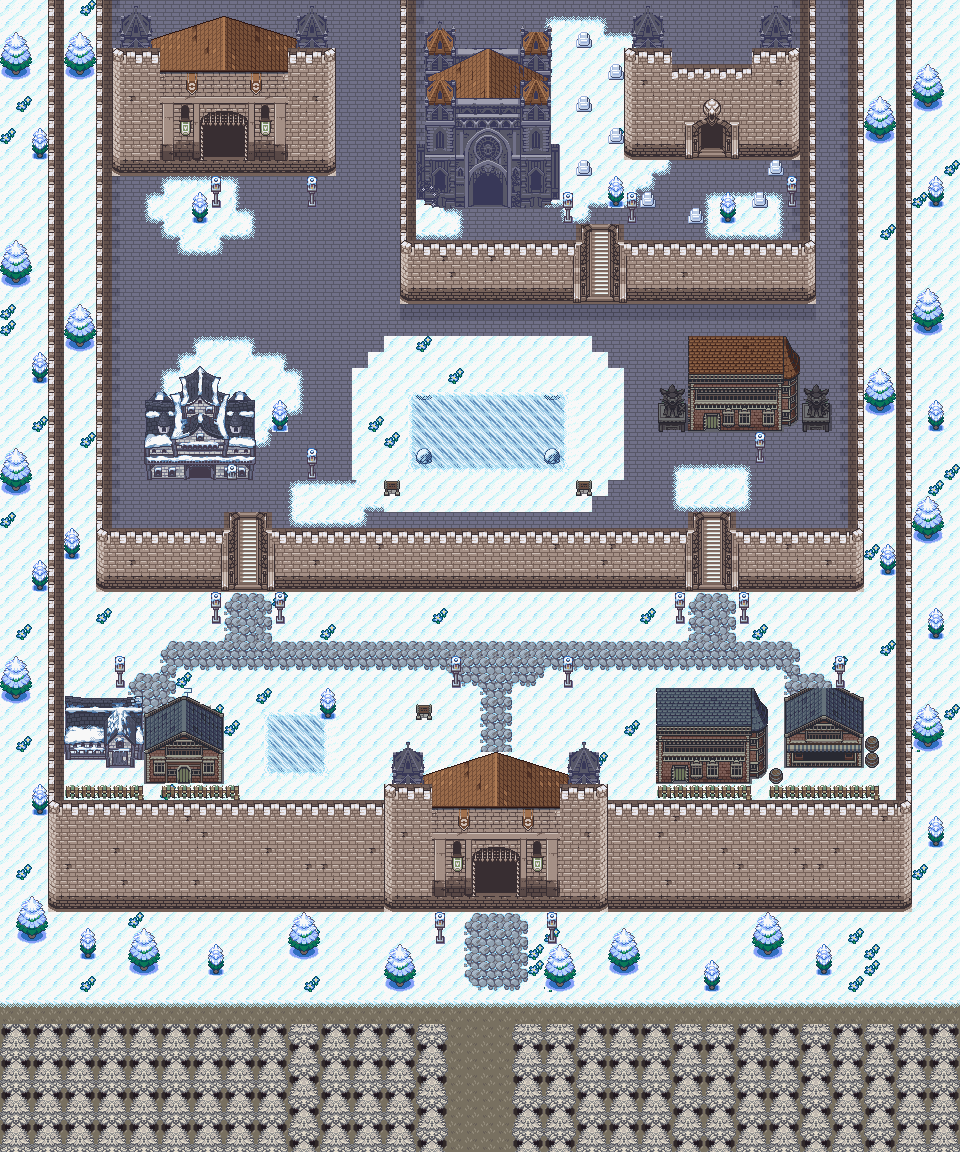
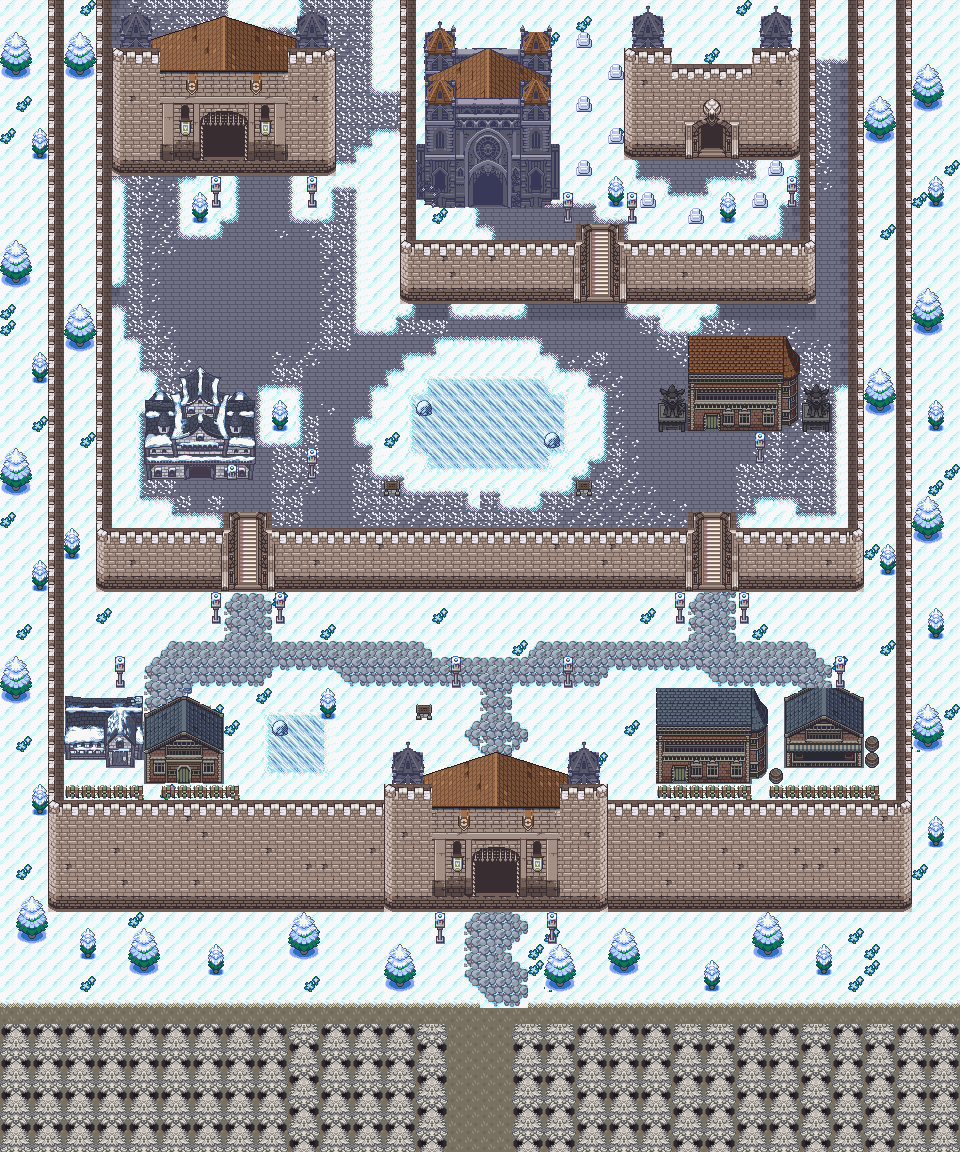
Mirroh: fluid snow on the stone, rounded ice, wandering lanes
The user: refine the mix of snow and stone so it is fluid and natural, not big blocks. Snow on the terraces from a field (smooth noise at two scales, deeper toward the walls, swept along the ways), cleaned so the drift pieces can draw it; dusted paving round the drifts; the ice in rounded uneven pools with the banks drifting onto it; the lower town's lanes and the way up from Hollow Hill wander. Audit clean.

Claude-Session: https://claude.ai/code/session_01FHXnfqnedTHLf5QFbB3MCU

diff --git a/tools/art/mirroh/mirroh_v3.py b/tools/art/mirroh/mirroh_v3.py
@@ -203,7 +203,10 @@ def snow_on(M, S, floor, cells, tag):
         elif se: m = 0x32e
         if m is None: M.ground(x, y, snow_tile(x, y), 'snow'); continue
         piece = ef(m).copy(); k = (piece == pave).all(-1)
-        piece[k] = floor(x, y)[k]
+        fl = floor(x, y); piece[k] = fl[k]
+        if not (fl == pave).all():                      # (on the ice: the drift's dark edge line a cold ice-blue)
+            p = piece.astype(int); dark = ~k & (_lum(p.astype(float)) < 150)
+            piece[dark] = (132, 160, 196)
         M.ground(x, y, piece, 'snow')
 
 def thick(S):
@@ -470,6 +473,92 @@ def blob(cx, cy, rx, ry, seed):
             if d < 1 + 0.35 * (rnd(seed, x, y) - 0.5): out.add((x, y))
     return out
 
+def vnoise(x, y, scale, seed):
+    """Smooth value noise in [0, 1): random values on a grid every `scale` cells, blended between."""
+    gx, gy = x / scale, y / scale; x0, y0 = int(np.floor(gx)), int(np.floor(gy)); tx, ty = gx - x0, gy - y0
+    sm = lambda t: t * t * (3 - 2 * t); tx, ty = sm(tx), sm(ty)
+    v = lambda i, j: rnd(seed, i, j)
+    return (v(x0, y0) * (1 - tx) + v(x0 + 1, y0) * tx) * (1 - ty) + (v(x0, y0 + 1) * (1 - tx) + v(x0 + 1, y0 + 1) * tx) * ty
+
+def _seg_dist(p, a, b):
+    p, a, b = np.array(p, float), np.array(a, float), np.array(b, float); ab = b - a
+    t = np.clip(np.dot(p - a, ab) / max(np.dot(ab, ab), 1e-9), 0, 1); return np.linalg.norm(p - (a + t * ab))
+
+def snow_field(l, cells, ways, keep, base):
+    """Where snow lies on a paved level: in ragged drifts of every size (smooth noise at two scales), a little more
+    toward its edges (walls, parapets, the map's top), cleared along the ways; always round `keep`."""
+    from scipy.ndimage import distance_transform_edt
+    mask = np.zeros((H, W), bool)
+    for (x, y) in cells: mask[y, x] = True
+    d = distance_transform_edt(mask)
+    S = set(); F = {}
+    for (x, y) in cells:
+        dd = min(d[y, x], y + 1)
+        f = base + 0.45 * np.exp(-(dd - 1) / 3.0) + 1.0 * (vnoise(x, y, 6.0, ('s', l)) - 0.5) \
+            + 0.45 * (vnoise(x, y, 2.6, ('t', l)) - 0.5)
+        w = min(_seg_dist((x, y), a, b) for way in ways for a, b in zip(way, way[1:]))
+        if w < 1.6: f -= 1.2 * (1.6 - w) / 1.6
+        if any(abs(x - kx) <= 1 and -1 <= y - ky <= 2 for kx, ky in keep): f = max(f, 0.6)
+        F[(x, y)] = f
+        if f > 0.5: S.add((x, y))
+    return S, F
+
+_DUST = {}
+def dust_tile(level, seed):
+    """Elderflower's paving with snow dusted on it: specks and little tufts, `level` 1 (a few) to 3 (thick);
+    two variants each (the in-game build will hold these few pieces)."""
+    key = (level, seed)
+    if key not in _DUST:
+        t = ef(0x275).copy(); n = (0, 5, 11, 19)[level]
+        for k in range(n):
+            x = int(rnd('dx', level, seed, k) * 15); y = int(rnd('dy', level, seed, k) * 14)
+            t[y, x] = (236, 240, 248); t[y, min(x + 1, 15)] = (236, 240, 248)
+            if rnd('dz', level, seed, k) < 0.5: t[y + 1, x] = (204, 212, 232)
+            if level == 3 and rnd('dw', seed, k) < 0.5: t[max(y - 1, 0), x] = (236, 240, 248)
+        _DUST[key] = t
+    return _DUST[key]
+
+def dust(M, S, cells, F, ways, l):
+    """The paving round the drifts, and here and there in the open, dusted: thicker next to the snow, thinning
+    out, none on the swept ways. So the drifts fade into the stone instead of stopping at a hard edge."""
+    for (x, y) in cells:
+        if (x, y) in S or M.gtag[y, x] != 'pave': continue
+        near = min((max(abs(x - a), abs(y - b)) for a in range(x - 2, x + 3) for b in range(y - 2, y + 3)
+                    if (a, b) in S), default=9)
+        w = min(_seg_dist((x, y), a, b) for way in ways for a, b in zip(way, way[1:]))
+        if w < 1.2: continue
+        f = F[(x, y)] + (0.35 if near == 1 else 0.15 if near == 2 else 0) + 0.25 * (rnd('du', x, y) - 0.5)
+        lev = 3 if f > 0.42 else 2 if f > 0.3 else 1 if f > 0.16 else 0
+        if lev:
+            sh = M.g[y][x]
+            if not (sh == ef(0x275)).all(): continue        # (shaded paving by a wall or parapet left as it is)
+            M.ground(x, y, dust_tile(lev, int(rnd('dv', x, y) * 2)), 'pave')
+
+def clean_snow(S, cells):
+    """Snow the drift pieces can draw: no crumbs (fewer than five cells), no one-cell necks or tips, no paving
+    holes of one or two cells inside it, no cell with bare paving only at two opposite corners."""
+    from scipy.ndimage import label
+    for _ in range(4):
+        S = thick(S & cells)
+        m = np.zeros((H, W), bool)
+        for (x, y) in S: m[y, x] = True
+        lab, n = label(m)
+        for i in range(1, n + 1):
+            if (lab == i).sum() < 5: S -= {(int(x), int(y)) for y, x in np.argwhere(lab == i)}
+        hole = np.zeros((H, W), bool)
+        for (x, y) in cells:
+            if (x, y) not in S: hole[y, x] = True
+        lab, n = label(hole)
+        for i in range(1, n + 1):
+            if (lab == i).sum() <= 2: S |= {(int(x), int(y)) for y, x in np.argwhere(lab == i)}
+        bad = set()
+        for (x, y) in S:
+            pv = lambda a, b: (a, b) in cells and (a, b) not in S
+            if not (pv(x - 1, y) or pv(x + 1, y) or pv(x, y - 1) or pv(x, y + 1)):
+                if (pv(x - 1, y - 1) and pv(x + 1, y + 1)) or (pv(x + 1, y - 1) and pv(x - 1, y + 1)): bad.add((x, y))
+        S -= bad
+    return thick(S & cells)
+
 def compose():
     M = Map()
     for y in range(SEAM):
@@ -477,38 +566,63 @@ def compose():
     mm.hh_seam(M)
     lv = lambda l: {(x, y) for y in range(SEAM) for x in range(W) if L[y, x] == l}
 
-    # --- L2 (the square) and L3 (the sacred terrace): paving, with snow lying on it in drifts; the ice in a snowy
-    # yard in the square. L3 snowier than L2 (deeper uphill).
-    for l, snows in ((2, [blob(14, 24, 4, 3, 'a'), blob(48, 13, 2, 4, 'b'), blob(12, 13, 3, 2, 'c'),
-                          rrect_cells(22, 21, 38, 31, 3), blob(44, 30, 3, 1, 'd'), blob(20, 31, 3, 1, 'e')]),
-                     (3, [blob(36, 7, 5, 6, 'gy'), blob(46, 13, 3, 1, 'f'), blob(26, 13, 2, 1, 'g')])):
-        cells = lv(l); S = set()
-        for b in snows: S |= b
-        S = thick(S & cells)
-        snow_on(M, S, lambda x, y: ef(0x275), cells, 'pave')
-    # the reflecting ice, in the square's snowy yard: Opal Village's ice (coloured), the yard's snow drifting onto it
-    ice = rect(26, 24, 34, 28)
-    yard = thick(rrect_cells(22, 21, 38, 31, 3) & lv(2))
-    icef = lambda x, y: recolour(full('gg', 0x282 if (x, y) in ((26, 24), (34, 24), (26, 28), (34, 28)) else 0x34b),
-                                 GG_ICE)
-    banks = thick({c for c in yard if c not in ice or c in rect(26, 24, 34, 24)} )
-    snow_on(M, banks, icef, yard, 'snow')
-    for c in ice - banks: M.gtag[c[1], c[0]] = 'ice'
+    # --- L2 (the square) and L3 (the sacred terrace): paving, with snow lying on it as it would: drifted deep
+    # against the walls, the parapets and round the buildings, thinning out into the open in ragged tongues and
+    # islands, and swept clear along the ways people walk (stair to door to gate); deeper on L3 (uphill). The
+    # reflecting ice sits in a drift of its own in the square.
+    BOULDERS = ((26, 25), (34, 27), (17, 45))
+    icef = lambda x, y: recolour(full('gg', 0x282 if (x, y) in BOULDERS else 0x34b), GG_ICE)
+    def pool(cx, cy, rx, ry, seed):                     # (the ice in a rounded, uneven shape, two cells thick or more)
+        return thick({(x, y) for y in range(cy - ry - 1, cy + ry + 2) for x in range(cx - rx - 1, cx + rx + 2)
+                      if ((x - cx) / (rx + 0.5)) ** 2 + ((y - cy) / (ry + 0.5)) ** 2
+                      < 1 + 0.3 * (vnoise(x, y, 1.8, seed) - 0.5)})
+    ice = pool(30, 26, 5, 2, 'ice')
+    WAYS = {2: [((15, 32), (15, 27), (12, 30)), ((44, 32), (44, 28), (46, 27)), ((15, 27), (22, 22), (37, 20)),
+                ((44, 28), (40, 22), (37, 20)), ((15, 27), (15, 12)), ((22, 22), (20, 32))],
+            3: [((37, 14), (31, 13)), ((37, 14), (40, 11), (44, 10))]}
+    KEEP = {2: [(12, 12), (17, 25), (13, 11), (19, 11), (49, 11)],            # pines, lamps: stand in snow
+            3: [(36, 2), (38, 4), (36, 6), (38, 8), (36, 10), (40, 12), (43, 13), (47, 12), (48, 10), (38, 11),
+                (45, 12)]}
+    for l, base in ((2, 0.2), (3, 0.42)):
+        cells = lv(l)
+        S, F = snow_field(l, cells, WAYS[l], KEEP[l], base)
+        yard = set()
+        if l == 2:
+            yard = {(x, y) for (x, y) in cells
+                    if ((x - 30) / 8.0) ** 2 + ((y - 26) / 5.3) ** 2 < 1 + 0.3 * (vnoise(x, y, 2.5, 'yd') - 0.5)}
+            S |= yard
+        S = clean_snow(S - ice, cells - ice) | (yard - ice)
+        near_ice = lambda x, y: any((x + i, y + j) in ice for i in (-1, 0, 1) for j in (-1, 0, 1))
+        floor = (lambda x, y: (icef(x, y) if (x, y) in ice else recolour(full('gg', 0x34b), GG_ICE))
+                 if near_ice(x, y) else ef(0x275))         # (a bank's drift shows the ice it lies against)
+        snow_on(M, S, floor, cells, 'pave')
+        dust(M, S, cells - ice, F, WAYS[l], l)
+        if l == 2:
+            for (x, y) in ice:
+                if (x, y) not in S: M.gtag[y, x] = 'ice'
 
     # --- L1 (the lower town): snow, cobbled lanes
-    C = set()
-    C |= rect(28, 40, 33, 42) | rect(10, 40, 49, 41)                # the street along the square's wall
-    C |= rect(14, 37, 16, 39) | rect(43, 37, 45, 39)                # to the two stairs up
-    C |= rect(30, 43, 31, 46)                                       # to the south gatehouse's far door (its mat)
-    C |= rect(8, 42, 10, 46) | rect(49, 42, 51, 46)                 # lanes to the cottages, the market
-    C &= lv(1)
+    def lane(pts, half, seed):                          # (a worn lane: its width and line wander a little)
+        out = set()
+        for y in range(H):
+            for x in range(W):
+                w = min(_seg_dist((x, y), a, b) for a, b in zip(pts, pts[1:]))
+                if w < half + 0.7 * (vnoise(x, y, 3.0, seed) - 0.5): out.add((x, y))
+        return out
+    C = lane(((10, 41), (20, 40.5), (30, 41.5), (40, 40.5), (50, 41)), 1.25, 'st')   # the street under the wall
+    C |= lane(((15, 37), (15, 41)), 1.3, 'w1') | lane(((44, 37), (44, 41)), 1.3, 'w2')   # to the stairs up
+    C |= lane(((30.5, 41), (30.5, 46)), 1.1, 'gt')                   # to the south gatehouse's back
+    C |= lane(((10, 41), (9, 46)), 1.2, 'w3') | lane(((50, 41), (51, 47)), 1.2, 'w4')    # the cottages, the market
+    C |= {c for c in rect(29, 43, 32, 46) if ((c[0] - 30.5) / 2.2) ** 2 + ((c[1] - 46) / 2.4) ** 2 < 1}  # (its foot)
+    C = thick(C & lv(1)) | (rect(30, 45, 31, 46))
     cobbles(M, C)
     # a small frozen pond by the cottages (the same ice, its snow drifting onto it)
-    pond = rect(17, 45, 19, 47); pondyard = rect(15, 43, 21, 49)
+    pond = pool(18, 46, 2, 1, 'pond'); pondyard = {c for c in rect(14, 43, 22, 49)
+                                                 if ((c[0] - 18) / 4.6) ** 2 + ((c[1] - 46) / 3.4) ** 2 < 1.15} | pond
     snow_on(M, thick(pondyard - pond), icef, pondyard, 'snow')
     for c in pond: M.gtag[c[1], c[0]] = 'ice'
     # --- L0 (outside): the cobbled way up from Hollow Hill to the south gatehouse
-    C0 = rect(29, 57, 32, SEAM - 3)
+    C0 = thick(lane(((30.5, 57), (30, 59.5), (30.8, SEAM - 2.6)), 1.6, 'hh'))
     cobbles(M, C0)
 
     walls(M)

diff --git a/bible/20_chapter1_build.md b/bible/20_chapter1_build.md
@@ -181,7 +181,7 @@ Chapter 1 is the template: once its foundations (mechanics, maps, buildings, NPC
 - **The ice path and the church after the blast (user design 2026-11-19), built (stage 1 + the stage-3 puzzle, user: the two combined for this piece).** **The church after Eden's blast** is a second layout of the same hall map (`LAYOUT_PELLUCA_TEMPLAR_HALL_RUINED`), swapped in by the hall's on-transition script once **`FLAG_DR_CHURCH_BLASTED`** is set (the blast scene, stage 4): the split through the gold medallion with frost round it, the old fault's cracks in wall and carpet, the cracked stained glass (three in the great window, one across the girl's face; two in each lancet) and the cell doorway caved in under MonoMyth's Mt. Thunder rubble (`blast_mock.py`, approved); no long crack from the rubble to the split (tried, dropped, user: unnatural and not needed). Everything else plays as the intact hall: its collision, its exit, and its side tables' tops over the player, read from the intact layout. The four split cells drop the player (Mt. Pyre's fall-through-the-hole) onto the ice path's landing; the cell door is dead and the fallen stone in front of it solid. **The ice path** (`PellucaIcePath`, 16x24, `icepath_mock.py`, approved): the landing, the 12x9 thin-ice field (86 ice cells, 22 ice boulders, a unique route from the landing to the gate), the ice wall and its gate, and the shrine: the half-thawed Arceus statue between the fossilised log benches, fire rings and blue flowers, and the three stone tusk arches like a ribcage before it. **The puzzle** runs on vanilla's Sootopolis-gym step callback (`STEP_CB_SOOTOPOLIS_ICE`, `VAR_ICE_STEP_COUNT`), which `src/field_tasks.c` now points at this map's own cracked/broken metatiles on this layout (`METATILE_PellucaIcePath_*`, written by the build into `metatile_labels.h`; the Sootopolis row-var bookkeeping kept to the gym). All 86 cracked (count 87): the gate's ice gives way (`SE_ICE_STAIRS`), the field refreezes solid (special `DrIcePathFreeze`: safe ice, no behaviour) and **`FLAG_DR_ICE_PATH_SOLVED`** is set; a second step on a cracked cell: the ice breaks, the player drops through, black screen, back on the landing with a fresh field. Every full load of the map rebuilds a fresh field and count when unsolved (special `DrIcePathReset`; a continued save would otherwise restore cracked cells in view), and the solved state (gate open, refrozen field) when solved. **Ways out:** the ladder in the shrine's corner, and (added in the build, so the player is never stuck before solving) **the Templars' rope** hanging beside the landing; both bring the player up just south of the split (hall warp 2). The ribs stand free: only each leg's foot is solid, the rest of each rib is drawn over the player, so he walks under and between them. Map type underground. Flags: `FLAG_DR_CHURCH_BLASTED` = 0x901, `FLAG_DR_ICE_PATH_SOLVED` = 0x902. Built by `tools/art/icepath/build_icepath.py` and `tools/art/templar/build_ruined.py` (with `imgtiles.py`; `tools/art/academy/tilefit.py` merges the statue's rarest near-shades so each 8x8 tile fits one palette, no visible change); `CHURCH_TEST_BLASTED=1` builds a test ROM that sets the flag on entering the hall. **Verified in the emulator** (test build): city -> ruined hall -> the cell door blocked -> into the split -> the landing; a second step on a cracked cell -> reset to the landing; the rope up and back down; the solution walked -> gate open, field refrozen -> the shrine -> the ladder up -> back down the split: still solved, the field crossed back and forth without falling. Normal build: the intact hall unchanged (city -> hall -> cell -> hall -> city; the split cells inert). *Stage 3-4, still to do:* the blast scene that sets the flag, the Templar's remark on the cold, the Sparkling Opal and the discovery, the Archbishop's scene, the leave-the-Valley block, dialogue for the fall (the field's black-out is silent for now).
 - **The shrine's awakening and the Sparkling Opal (user design 2026-11-20), built.** With the field solved, **pressing A on the Arceus statue** awakens the holy power of the site: dramatic music starts at the touch (**Rayquaza Appears**, `MUS_RAYQUAZA_APPEARS`; user: something awe-inspiring), a rumble, **the ice melts off the statue** (five frames, a little meltwater left at its foot), **the seal breaks in a holy flash** (fade to white and back) with **Arceus's cry echoing** (the cry's chorus mode under a heavy mixer reverb: specials `DrPlayEchoCry` / `DrEndEchoCry`), **the two fire rings beside the logs light** one after the other in **holy sapphire-and-white flame** (user's pick over warm firelight; animated, four frames on dedicated tiles: `InitTilesetAnim_PellucaIcePath`), and the music ends. Then Osrid (portrait, his private nameplate): "Something fell down out of the ice... Could this be...!!", and **"Osrid found the Sparkling Opal!"** with the key-item fanfare and its description popup. The statue stays thawed and the fires lit (`FLAG_DR_STATUE_AWAKENED` = 0x909, restored on every load). **Sparkling Opal** (`ITEM_SPARKLING_OPAL`, key item): its bag icon drawn in `awaken_mock.py` (a milky opal with a rainbow patchwork of play of colour, user); bag text (three lines fit): "Fell from the ice of / an Arceus statue. It / shimmers as if alive." (the user's description, "A gleaming opal that fell from the ice around an ancient Arceus statue. Its colours shift as if alive.", is too long for the bag window; it can be the text when the item is first shown or examined). **What happens to it (user 2026-11-20, canon):** when the player goes back up and shows it to **Archbishop Ambrose**, he gives them the **Warding Ring** with massive enthusiasm (a key item that, worn, keeps wild Pokémon away: a Repel switched on and off at will): Sparkling Opals appear only where Arceus has set foot in the material realm, the Templars have sought one for centuries, and this is the first physical proof of Arceus found in centuries as far as he knows. The player also gets the bravery reward (Never-Melt Ice / Metal Coat / Soft Sand). Stage 4: the scene; the Ring's mechanic to be built with it. **Ice path music (user):** the cave plays **MonoMyth's Old Headquarters theme** (Old Town's Old HQ, where the gang leader with the Bug Pokémon is fought): MonoMyth song 677 ported note for note by `tools/monomyth/port_song.py` (tracks, the voices it uses, its two samples; credit MonoMyth) as `MUS_DR_OLD_HQ` (song 631). **Church crack** (user): the long fresh crack from the cell rubble to the split is gone. Built by `build_icepath.py` with `awaken_mock.py` (melt frames, flames, icon); the statue's cells across all the melt frames share 26 colours (`tilefit.reduce_joint`) so the room still fits 13 palettes. **Verified in the emulator** (test build): the cave plays the Old HQ theme; A on the statue plays the whole sequence (music switches to Rayquaza Appears and back, the melt, the flash, both fires, the line, the item into Key Items); leaving and coming back: statue thawed, fires lit and flickering (four distinct frames).
 - **Route 11 and Hollow Hill: layouts approved (user 2026-11-20).** **Route 11** (45x30, west from Pelluca's west road): Pelluca's pines and cobble road carry on at the east end (the seam to Pelluca uses Pelluca's own Cormoria tiles), farmland in the middle (a thatched farmhouse with a fenced yard, cabbage rows, a sown field, hay; fenced flower rows and tall grass south of the road), tan cliffs stepping down along the north, a cliff-flanked little cove on the south coast, and at the west end the road becomes a dirt track into cooler dark woods running on into Hollow Hill (the Eiscue scene on that track). Art: Crown's seaside farm village (3.1) and dark woods (3.25), Odyssey's farm (0.232); Pisces' Brumist Cliffs / Zotpyre Village (snowy in the ROM) and Odyssey's terraced hill as layout ideas. **Hollow Hill** (about 50x50; **its theme (approved by the user 2026-11-20, "perfect"):** Ghost Grey's Route 1 theme re-arranged as `MUS_DR_HOLLOW_HILL` by `tools/music/arrange_hollow_hill.py`: slowed from 124 to 64 bpm, on the soft pedal piano, no percussion, with a ghostly far-off voice echoing the tune (a sine tone first, heard as beeps: replaced) (wind was tried and taken out: it came across as static) in the bars where the song falls quiet; credit Ghost Grey): woods rising in three rings, each a cliff step up, to a central rock knoll; the path in from Route 11 climbs the rings by stairs to **the sealed tunnel door** at the knoll's foot; the north exit to Mirroh leaves from the outer ring (Glaive there); the Eiscue and the 1v2 on the outer ring; **very foggy, with a generally spooky, unsettling feeling** (user 2026-11-20). **The summit is late-game** (unlocked only with Valkeerin/Keerin in the party; the trip to the distant future and the Red fight happen there; 19_location_atlas.md). **Hollow Hill will be revisited and added to over the whole game** (many secrets, met in pieces): its layout and its tileset keep room for more (hidden burrow mouths placed now as scenery that can later open, the summit area behind the sealed door, spare palette and tile room in its tileset). **Revision (user 2026-11-20, after the first mock):** Route 11 is **about twice as long (about 90x30)**; the **Ivy River's thin western branch** (as on the illustrated region map, coming down from the north past the Necropolis just west of Pelluca) **crosses Route 11 near its Pelluca end and runs down to the beach and the sea; the road crosses it on a bridge**; the **grass shifts gradually** from Pelluca's light mint to the darker temperate greens of Hollow Hill's woods (shades reaching into each other in patches, as MonoMyth's and Crown's route boundaries do; tree kinds mixing before they change). Design rule: no tree or object ever cut, stacked into another or bleeding into buildings, cliffs or water (docs/chapter1_workflow.md). **Mock v2 (2026-11-20):** the river drops through a chasm in three falls (the middle one under the bridge), over the coastal cliff into a rock pool, and a stream bends west over the sand to the sea; the beach is a cove between cliff walls, split by the stream. **Steps down to the west beach (user 2026-11-20)** are cut into the coastal cliff just west of the bridge (stone stairs, two wide: Pelluca's own stair tiles, as in its sea wall): the beach holds **at least one trainer**, and more may go there later. The east beach (between the stream and Pelluca's pines) has no way down yet: **revisit later (user 2026-11-20).** **Built (2026-11-20):** `MAP_ROUTE11` (layout 90x40: five rows of woods, the chasm and the sea added above and below the approved picture, out of the player's reach, so the camera never shows past the edge), connected to Pelluca's west road (Route 11's road rows 19-21 = Pelluca's 28-30). Its own secondary tileset (`gTileset_Route11`, 7 palettes: grass, broadleaf woods, farm, cottage and hay, bridge, cliffs, river and pines on sage) under Pelluca's primary; Pelluca's own metatiles wherever a cell is one. Crowns of trees are walked behind; tall grass is tall grass (no encounter table yet: stage 5); the river in the chasm is solid, the stream and the sea need Surf. **Story gate (provisional):** stepping onto Pelluca's west edge is stopped with Osrid's line ("Cadmus told me to meet him at the church..." after the blast, a general line before it) until the shrine is awakened; stage 4 sets the real condition. **Music (user 2026-11-20):** MonoMyth's Route 15 theme (`MUS_DR_MM_ROUTE15`): a classic Pokémon route theme, reworked, a bright contrast before spooky Hollow Hill. Credit: MonoMyth (its music). **Pelluca Valley's main theme (user 2026-11-20):** Pokémon Crown's route theme (its song 292, `MUS_DR_CROWN_PELLUCA`), replacing Lilycove's, **in the piano version the user chose** (`MUS_DR_CROWN_PELLUCA_PIANO`: our pedal piano for its guitar, harp, clarinet and flute, standalone; the original as ported was removed, user: the remix is better). Credit: Pokémon Crown (its music). **Cold-open music (user 2026-11-20):** MonoMyth's "A Legend Unfolds" (`MUS_DR_LEGEND_UNFOLDS`; in MonoMyth it plays when Fabrizia's museum in North Edelweiss tells the legend of Athanto's Pokémon) plays from Tenebris's notes through Cadmus's letter until Osrid docks in Pelluca, replacing "Far Horizons". Credit: MonoMyth (its music). **Loops checked in the game (2026-11-20):** Pelluca's theme, Route 11's, the cold open's and Hollow Hill's each play through their loop point and come back in step with their loop start (every track loops at the same point). **Sound engine (2026-11-20):** 12 sampled voices instead of 5, as MonoMyth uses (the songs from MonoMyth and Crown play up to 10-12 notes at once; with 5 they cut each other off). **Hollow Hill mock v3 (user 2026-11-20: "quite good"):** `tools/art/hollowhill/hh_mock.py`, renders in `assets/hollowhill_reference/`. Art: Pokémon Odyssey's haunted forest (its maps 0.94/0.95/0.97: teal floor, dark pines, dead trees, stumps, logs, red mushrooms, dark tall grass, burrow hollows, grey stone terraces and stairs, the sealed blue door); credit Odyssey. Layout 66x64 (the hill about 40x37; the extra width is the east edge, where Route 11's olive ground and Crown woods darken and mix into the teal and the pines over about ten columns; Route 11's row = Hollow Hill's row - 24, its track on rows 43-45). Ring edges drawn by Odyssey's own terrace grammar, two bands per ring, three for the knoll. **The way through (user 2026-11-20):** the woods floor is closed into sections by trees running up to the cliffs (north-west corner, north, east, south), and ring 2 reaches out west and east to ring 1's edge, cutting ring 1 into a north and a south half, so **the player can never go round the hill: from Route 11 up ring 1, up ring 2 (the sealed door, or over), down the north side to the north woods and the exit to Mirroh.** Eight stairs, four per ring (south faces, and north edges with the steps drawn down-facing) link the sections: the clearing (Eiscue, the 1v2) is its own section with its own stairs; the north-east woods are a dead-end pocket (room for an item or a secret). The mock checks this each run: with ring 2's stairs closed the north is out of reach; with ring 1's closed the woods sections do not join. The void pits with red eyes were dropped (they read as ponds). **Later (user 2026-11-20):** Hollow Hill keeps being worked on through the game, e.g. **a cool ruined structure on the top**, since it truly is an ancient and arguably cursed place. **Colours (user 2026-11-20):** the woods and their floor an **off-white, creepy bone** (Odyssey's pines, floor and tall grass recoloured one for one), the cliffs a **sinister stone, dark and light mixed** (near-black violet shade, charcoal faces, bone-pale lit edges), so Hollow Hill stands out even in the fog; trunks, red mushrooms and the sealed door's cold blue kept. At the east edge Route 11's green woods pale toward bone over three columns of trees (`hh_mock.py` BONE, tint). **Built (2026-11-20):** `MAP_HOLLOW_HILL` (layout 66x64; `tools/art/hollowhill/build_hollowhill.py` from `hh_mock.py`, mock v8), connected to Route 11's west edge (Hollow Hill's row = Route 11's + 24; the track on rows 43-45). **The seam:** Hollow Hill's columns 58-65 are Route 11's own columns 1-8 (the same blocks; its woods' pattern carried up above Route 11's top), and its tileset (`gTileset_HollowHill`, under Pelluca's primary) keeps Route 11's 24 seam metatiles, their 69 tiles and its two palettes (grass, broadleaf woods: slots 6-7) at the same ids, numbers and slots, so each map draws the other's edge right. Its own: 208 metatiles, 437 tiles, 5 palettes (floor, pines and wood, stone and blood, Crown's woods paled, the door and mushrooms). **The tiles are nearly full** (4 of 512 spare): the webs and the blood are built as repeating pieces (a few drip and blot patterns, one garland per spacing of trees) to fit; later additions (the ruins on top, burrows that open) are best as their own maps behind the sealed door and the burrows, or by trimming the webs/the olive-to-bone shades. Cliffs solid, stairs walkable, tree crowns walked behind, webs drawn over the player, the dark tufts are tall grass (no encounter table yet: stage 5). Weather `WEATHER_FOG_HORIZONTAL`, **thinned for Hollow Hill** (src/field_weather_effect.c: 6/16 over 13/16 instead of 12/16 over 8/16, so the bone woods are not washed out; other foggy maps unchanged); music `MUS_DR_HOLLOW_HILL`; `MAPSEC_DR_HOLLOW_HILL`. The way north runs off the top edge (the Mirroh area is next; no connection yet). Walked in the emulator from Route 11 up both rings, to the door, down the north side to the way north, and to the clearing. **The Hollow Hill guardian (user 2026-11-20; a special quest later in the game):** the personification of the haunted energy that has gathered round Hollow Hill for many years, so strong it **reanimated the dead body of an Araquanid as its vessel**: a custom **undead Araquanid**, a blood bubble for its water bubble, a skull-like face, skeletal limbs and body. Still **Water/Bug**, ability **Water Bubble**; about **level 65**; exceptionally strong: starts the fight at **+1 Attack, Defense, Special Defense and Speed**. It holds the **Reaver's Fang**, which the player gets by defeating it. **Reaver's Fang (held item; user 2026-11-20):** (1) the holder heals **25% of the physical or special damage it deals**; (2) when an enemy's physical or special attack damages the holder, the holder **heals 25% of that damage and the same amount is dealt back to the attacker**; (3) recoil the holder inflicts on itself is lifestolen at 25% too (user, first description; no attacker to hit back). **One of the strongest held items in the game**, which is why it **cannot be had until after midgame** (the guardian's quest is post-midgame). The blood webs across Hollow Hill are signs of its power over the woods. **Not catchable** (user 2026-11-20): it is only cursed energy possessing and working the corpse of a dead Pokémon. **Art:** the user will help make the base art for the assistant to modify further, and may let the assistant try the design when the time comes. OPEN: a new form with its own stats or Araquanid with the boosts; the quest. **Unsettling throughout (user 2026-11-20):** the pines' bone shades go to a **sinister grey** in their depths; **blood-like stains** run down the cliffs from their tops and soak into the stone in blots (more round the sealed door); **Blood-red webbing in MonoMyth's Webbed Woods style, hung across the trees** (user 2026-11-20: a web on each tree looked strange; hang them across more of the trees, more naturally; webs on actual groups of trees, never in the open): sheets of web sag from tree to tree along the woods' edges (the north and south treelines, garlands from each crown to the next at about the same height, two or three threads deep, laced by MonoMyth's zig-zags, torn threads trailing), bulge out from tree to tree down the west woods' side and the trees closing the way east, link pines standing near each other or near a woods' edge (the pair on ring 1), MonoMyth's big sagging net across the narrow way north, small round webs only in the dead tree's branches and in the V between the trees closing the way south. Drawn a pixel at a time in the webbing's two colours (MonoMyth's, made old-blood red); the net is MonoMyth's (`web_net.png`, 0x886DD5C). Credit MonoMyth. **The blood webs mean something (user 2026-11-20):** they are signs of the **Hollow Hill guardian's** power over the woods (below).
-- **Mirroh (user 2026-11-20/21; zone plan v2, `tools/art/mirroh/layout_sketch.py`, `assets/mirroh_reference/`).** Where Crown's medieval architecture really starts. **A mix of a Crown village and MonoMyth's Fort Elderflower** (user): a **walled city climbing the slope** of the massif in three terraces (Elderflower's crenellated terrace walls that jog with the slope, stone stairs staggered so the way winds up), Crown's timber and thatch cottages with fenced gardens below. **Light snow in the lower town, deeper uphill. Gothic, gloomy and wintry:** roofs recoloured to dark slate, iron lanterns, Crown's dragon statues darkened to gargoyles, banners in House Langerin's colours, a graveyard. **Ghost Grey's Opal Village** (user: loves its reflecting ice; study its landscape and indoor/outdoor tiles): sheets of **reflecting ice** sunk in brick rims (one in the square, one in the lower town), **dark icy streets with sparkles**, snowbanks held by brick retaining walls; its houses and museum halls for the interiors (greyscale: to be coloured). Zones: outside the **south gate** Hollow Hill's bone woods carry on (the seam), thinning to snowy pines; **lower town** (cottages, gardens, ice sheet); **middle terrace**, the square (the **Tavern**, like Pelluca's, **recoloured to the dark slate look**, user; a market hall, stalls, the ice sheet); **upper terrace** (deep snow): a gothic chapel and its graveyard (the seed of DM's Mirroh Base Camp graveyard), **House Langerin's town house** (user: yes). **Two ways out north (user):** a **north-west path** further north out of town, and a **separate north-east path to the Necropolis** (its own map uphill). **Gatehouses (user 2026-11-21):** Mirroh is guarded: people may not come and go as they please. **Two walk-through gatehouse buildings with guards** (enter one side, pass the guards inside, leave by the other; interior maps): the **south gatehouse** between Hollow Hill and the city proper, and the **north-west gatehouse** on the route toward the mountain, the Templar HQ and beyond. The **north-east path to the Necropolis is open** (no gate; the Necropolis keeps its own entrance). **Plan approved by the user ("basically perfect").** **Gates, decided (user 2026-11-21):** the **south and north-west gatehouses are roofed gatehouse buildings** in the style of Ghost Grey's and Crown's walk-through gates (slate roof behind the crenels, a stone front with banners, a portcullis door between lanterns, round towers either side; Crown's castle gate restoned in Elderflower's stone). The south one's far door, on the city side, is **a short flight of steps up from the gatehouse** (the city is uphill; user: "yes"). Their **hallway maps** follow North Edelweiss's gate hallway (MonoMyth): a dark doorway at the top, a crimson runner, guard desks facing each other, benches and plants, the mat at the foot, in Mirroh's cold stone (`tools/art/mirroh/gate_hall.py`). **The north-east way to the Necropolis is a standalone skull gate** (user's idea: Elderflower's skull keep door, "rebuilt as a standalone gate with a new top"): the skull arch under a crenellated walk between two round towers capped with the gothic spires of Crown's cathedral; no guards; you walk through the dark arch onto the Necropolis map. **Revised (user 2026-11-21):** both gatehouses take **the towered style** (option B: three-wide round towers a row taller than the gate, capped with the Necropolis gate's spires; no steps and no mat (a mat against the roof read wrong): the south one's far door is where the city's cobbled lane runs into its back), and **between the towers the real roof of Crown's cathedral** (its metal-sheet roof as it runs back between the cathedral's spired towers, cut out and widened at mid-slope), **in copper**, over Crown's gate core (pillar, lantern, portcullis, lantern, pillar, two banners); 14 wide (user: no roof at all looked strange; a drawn roof did not look like a natural part of the gate). **The fortress stone (user 2026-11-21):** every wall, tower, parapet, stair and both gatehouses (and the Necropolis gate) in **one copper-shaded stone**, a cold grey warmed toward copper, to go with the copper roofs (`cstone`, mapped by lightness from Elderflower's stone; the snow on the crenels and the dark slate paving kept); the gatehouse roof runs in behind its towers (no gap at its sides). **Copper is Mirroh's main colour and House Langerin's crest's** (user): used as the contrast to the dark slate and the snow wherever it makes sense: the gatehouse roofs, the banners (Crown's purple ones in copper), the chapel's roof (Crown's verdigris roof in copper, a little green left in its seams), House Langerin's town house roof, the hallway runners and mats (copper rather than red: red is generic). **Mock v3 (2026-11-21, `tools/art/mirroh/mirroh_v3.py`):** the city as Elderflower-style terraces drawn from a level map (each terrace narrower than the one below, its own crenellated front wall with round-tower ends, parapets down its sides, its paving shaded under them), snow lying on the paving in drifts, the reflecting ice set in snowy yards (the snow drifting onto the ice, no rim), cobbled lanes in the lower town; every borrowed building cut out of its source cleanly (only the source's true ground removed).
+- **Mirroh (user 2026-11-20/21; zone plan v2, `tools/art/mirroh/layout_sketch.py`, `assets/mirroh_reference/`).** Where Crown's medieval architecture really starts. **A mix of a Crown village and MonoMyth's Fort Elderflower** (user): a **walled city climbing the slope** of the massif in three terraces (Elderflower's crenellated terrace walls that jog with the slope, stone stairs staggered so the way winds up), Crown's timber and thatch cottages with fenced gardens below. **Light snow in the lower town, deeper uphill. Gothic, gloomy and wintry:** roofs recoloured to dark slate, iron lanterns, Crown's dragon statues darkened to gargoyles, banners in House Langerin's colours, a graveyard. **Ghost Grey's Opal Village** (user: loves its reflecting ice; study its landscape and indoor/outdoor tiles): sheets of **reflecting ice** sunk in brick rims (one in the square, one in the lower town), **dark icy streets with sparkles**, snowbanks held by brick retaining walls; its houses and museum halls for the interiors (greyscale: to be coloured). Zones: outside the **south gate** Hollow Hill's bone woods carry on (the seam), thinning to snowy pines; **lower town** (cottages, gardens, ice sheet); **middle terrace**, the square (the **Tavern**, like Pelluca's, **recoloured to the dark slate look**, user; a market hall, stalls, the ice sheet); **upper terrace** (deep snow): a gothic chapel and its graveyard (the seed of DM's Mirroh Base Camp graveyard), **House Langerin's town house** (user: yes). **Two ways out north (user):** a **north-west path** further north out of town, and a **separate north-east path to the Necropolis** (its own map uphill). **Gatehouses (user 2026-11-21):** Mirroh is guarded: people may not come and go as they please. **Two walk-through gatehouse buildings with guards** (enter one side, pass the guards inside, leave by the other; interior maps): the **south gatehouse** between Hollow Hill and the city proper, and the **north-west gatehouse** on the route toward the mountain, the Templar HQ and beyond. The **north-east path to the Necropolis is open** (no gate; the Necropolis keeps its own entrance). **Plan approved by the user ("basically perfect").** **Gates, decided (user 2026-11-21):** the **south and north-west gatehouses are roofed gatehouse buildings** in the style of Ghost Grey's and Crown's walk-through gates (slate roof behind the crenels, a stone front with banners, a portcullis door between lanterns, round towers either side; Crown's castle gate restoned in Elderflower's stone). The south one's far door, on the city side, is **a short flight of steps up from the gatehouse** (the city is uphill; user: "yes"). Their **hallway maps** follow North Edelweiss's gate hallway (MonoMyth): a dark doorway at the top, a crimson runner, guard desks facing each other, benches and plants, the mat at the foot, in Mirroh's cold stone (`tools/art/mirroh/gate_hall.py`). **The north-east way to the Necropolis is a standalone skull gate** (user's idea: Elderflower's skull keep door, "rebuilt as a standalone gate with a new top"): the skull arch under a crenellated walk between two round towers capped with the gothic spires of Crown's cathedral; no guards; you walk through the dark arch onto the Necropolis map. **Revised (user 2026-11-21):** both gatehouses take **the towered style** (option B: three-wide round towers a row taller than the gate, capped with the Necropolis gate's spires; no steps and no mat (a mat against the roof read wrong): the south one's far door is where the city's cobbled lane runs into its back), and **between the towers the real roof of Crown's cathedral** (its metal-sheet roof as it runs back between the cathedral's spired towers, cut out and widened at mid-slope), **in copper**, over Crown's gate core (pillar, lantern, portcullis, lantern, pillar, two banners); 14 wide (user: no roof at all looked strange; a drawn roof did not look like a natural part of the gate). **Snow and stone (user 2026-11-21: more fluid and natural, not big blocks of snow):** on the paved terraces the snow lies in ragged drifts of every size (smooth noise at two scales, a little deeper toward the walls), swept clear along the ways people walk (stairs, doors, gates), and the paving round the drifts is **dusted** (a few pieces of paving with snow specks, thicker next to the drifts, thinning out), so the drifts fade into the stone; deeper on the sacred terrace. The ice sits in rounded, uneven pools, the snow drifting straight onto it; the lower town's cobbled lanes wander and vary in width. **The fortress stone (user 2026-11-21):** every wall, tower, parapet, stair and both gatehouses (and the Necropolis gate) in **one copper-shaded stone**, a cold grey warmed toward copper, to go with the copper roofs (`cstone`, mapped by lightness from Elderflower's stone; the snow on the crenels and the dark slate paving kept); the gatehouse roof runs in behind its towers (no gap at its sides). **Copper is Mirroh's main colour and House Langerin's crest's** (user): used as the contrast to the dark slate and the snow wherever it makes sense: the gatehouse roofs, the banners (Crown's purple ones in copper), the chapel's roof (Crown's verdigris roof in copper, a little green left in its seams), House Langerin's town house roof, the hallway runners and mats (copper rather than red: red is generic). **Mock v3 (2026-11-21, `tools/art/mirroh/mirroh_v3.py`):** the city as Elderflower-style terraces drawn from a level map (each terrace narrower than the one below, its own crenellated front wall with round-tower ends, parapets down its sides, its paving shaded under them), snow lying on the paving in drifts, the reflecting ice set in snowy yards (the snow drifting onto the ice, no rim), cobbled lanes in the lower town; every borrowed building cut out of its source cleanly (only the source's true ground removed).
 - **Chapter 1 asset references (user 2026-11-19), for later: nothing built yet.** **Permissions and credits (user 2026-11-19):** Pokémon Crown (Blah and the Crown team) and Pokémon Ghost Grey Version EX (JoeyZeed) are used with permission; credit them in the notes alongside MonoMyth, Pokémon Odyssey and the Pokémon Rejuvenation team. Sources earmarked while surveying Pokémon Crown (FireRed hack by Blah and the Crown team; `tools/crown/README.md`, renders in `assets/crown_reference/`), MonoMyth, Dreamstone Mysteries and Rejuvenation:
   - **Mirroh Necropolis entrance:** Crown's curved palisade gate (walled capital, map group 3 #3, cells x43-54 y5-13), recoloured sinister (slate stone, charred wood, tarnished bronze arch, spectral banners) with graveyard/gothic ornament, as the grand entrance down into the catacombs (user). Catacomb levels: Crown's underground stone halls (group 6 #8: tiered walls, cobwebs, pillars, plank bridges over a chasm, a sealed chamber) and its sewer (group 7 #11), recoloured. Graves: DM's Mirroh Base Camp Graveyard headstones (metatile 0x3A5 in LAYOUT_MIRROH_BASE_CAMP_GRAVEYARD) and MonoMyth Speedwell's wooden cross markers (metatiles 0x39, 0xA6); dead stumps from MonoMyth's Haunted Swamp; Crown's cobwebs; Rejuvenation's iron candle stands with ghost-coloured flames; Crown's dragon statues darkened into gargoyles. **Underground catacombs (user, primary reference):** Pokémon Ghost Grey Version EX's Lavender Town catacombs (by JoeyZeed; `tools/ghostgrey/README.md`, renders in `assets/ghostgrey_reference/`): six chambers with grave niches, demon-face reliefs and chasm crossings, ending in a pillared chamber with a sealed gate (the Distortion gate's room). They are greyscale and need a proper palette.
   - **Templar Headquarters ("Templar Citadel", Mt. Mirroh):** Crown's gothic cathedral on its moat island with timber chalets (group 3 #2), with an alpine/snow treatment and perhaps an outer wall.
